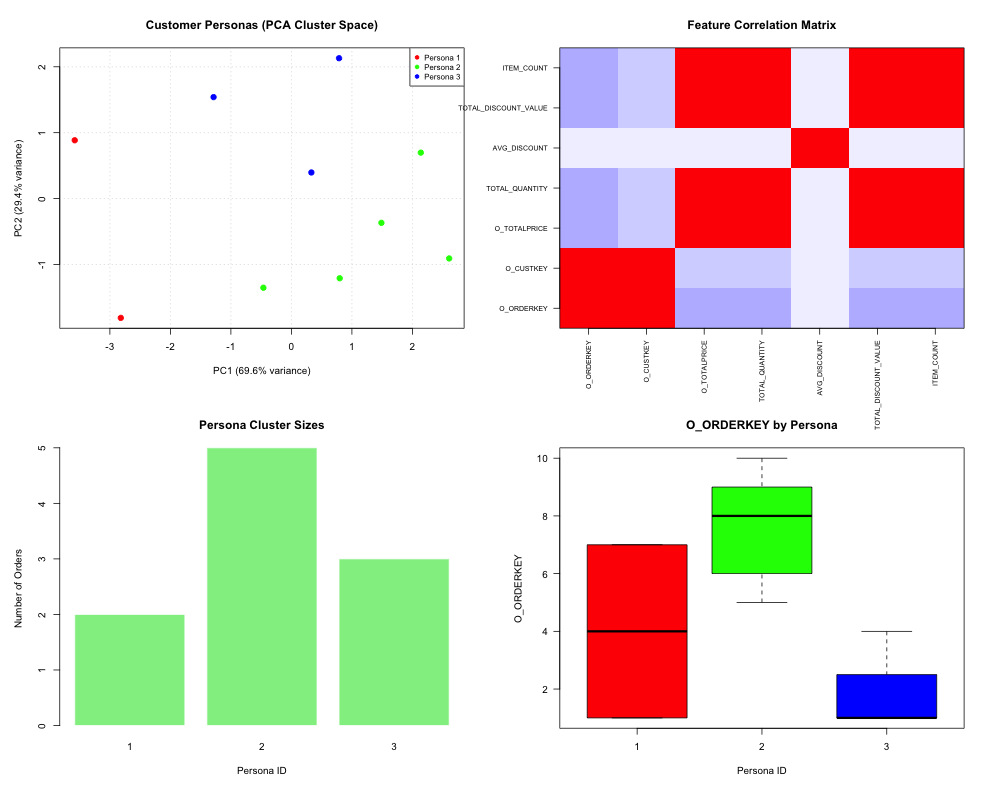
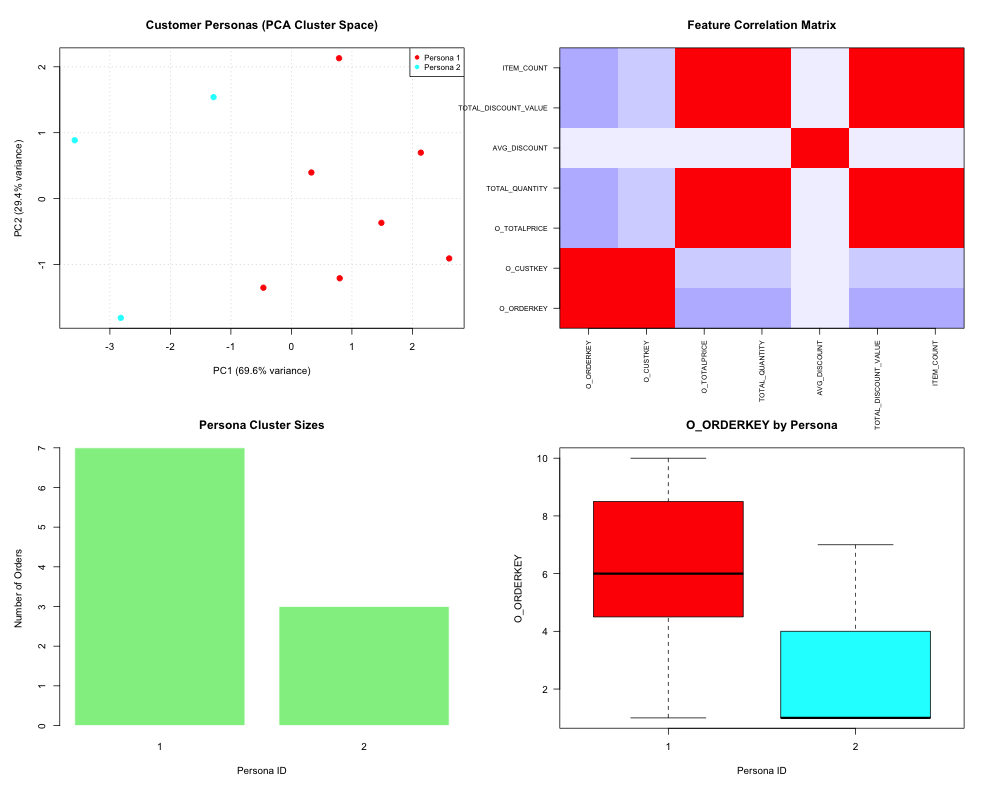
Optimize K-Means cluster count via programmatic silhouette validation

diff --git a/gen/customer_orders_nominal_audit_report.md b/gen/customer_orders_nominal_audit_report.md
@@ -1,6 +1,6 @@
 # Advanced SQL Data Quality and Behavior Analysis Lab Report: customer_orders_nominal
 
-**Report Generated on:** 2026-07-21 14:18:08.653783
+**Report Generated on:** 2026-07-21 14:23:09.845156
 **Source Dataset:** `customer_orders_nominal.csv`
 **Auditor Classification Status:** DANGER / FAIL 🔴
 
@@ -136,13 +136,12 @@ Figure 2 presents the pairwise scatterplots with a fitted linear regression line
 ![Figure 2: Pairwise Scatterplots with Line of Fit](customer_orders_nominal_scatterplots.png)
 
 ### Customer Persona Profiles (K-Means)
-We standardized the numeric metrics and fitted a [K-Means clustering algorithm](https://en.wikipedia.org/wiki/K-means_clustering) ($k=3$) to identify behavioral personas:
+We standardized the numeric metrics and fitted a [K-Means clustering algorithm](https://en.wikipedia.org/wiki/K-means_clustering) ($k=2$) to identify behavioral personas:
 
 | Persona Cluster | Order Count | Percentage (%) |
 |---|---|---|
-| **Cluster 1** | 202 | 32.69% |
-| **Cluster 2** | 170 | 27.51% |
-| **Cluster 3** | 246 | 39.81% |
+| **Cluster 1** | 331 | 53.56% |
+| **Cluster 2** | 287 | 46.44% |
 
 
 ## 4. Exploratory Multivariate Analysis and Cluster Diagnostics

diff --git a/gen/customer_orders_anomalous_audit_report.md b/gen/customer_orders_anomalous_audit_report.md
@@ -1,6 +1,6 @@
 # Advanced SQL Data Quality and Behavior Analysis Lab Report: customer_orders_anomalous
 
-**Report Generated on:** 2026-07-21 14:18:09.569592
+**Report Generated on:** 2026-07-21 14:23:10.811903
 **Source Dataset:** `customer_orders_anomalous.csv`
 **Auditor Classification Status:** DANGER / FAIL 🔴
 
@@ -103,13 +103,12 @@ Figure 2 presents the pairwise scatterplots with a fitted linear regression line
 ![Figure 2: Pairwise Scatterplots with Line of Fit](customer_orders_anomalous_scatterplots.png)
 
 ### Customer Persona Profiles (K-Means)
-We standardized the numeric metrics and fitted a [K-Means clustering algorithm](https://en.wikipedia.org/wiki/K-means_clustering) ($k=3$) to identify behavioral personas:
+We standardized the numeric metrics and fitted a [K-Means clustering algorithm](https://en.wikipedia.org/wiki/K-means_clustering) ($k=2$) to identify behavioral personas:
 
 | Persona Cluster | Order Count | Percentage (%) |
 |---|---|---|
-| **Cluster 1** | 2 | 20.00% |
-| **Cluster 2** | 5 | 50.00% |
-| **Cluster 3** | 3 | 30.00% |
+| **Cluster 1** | 7 | 70.00% |
+| **Cluster 2** | 3 | 30.00% |
 
 
 ## 4. Exploratory Multivariate Analysis and Cluster Diagnostics
